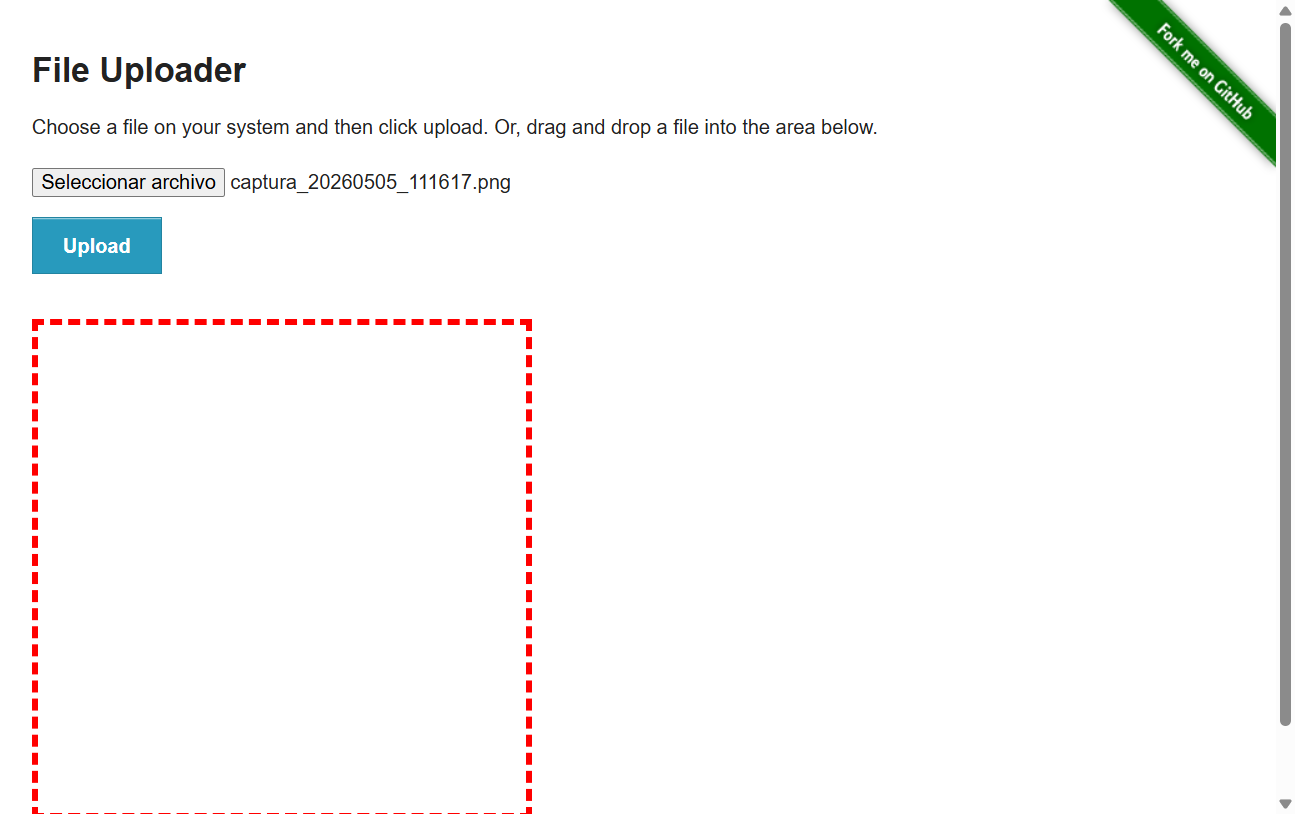
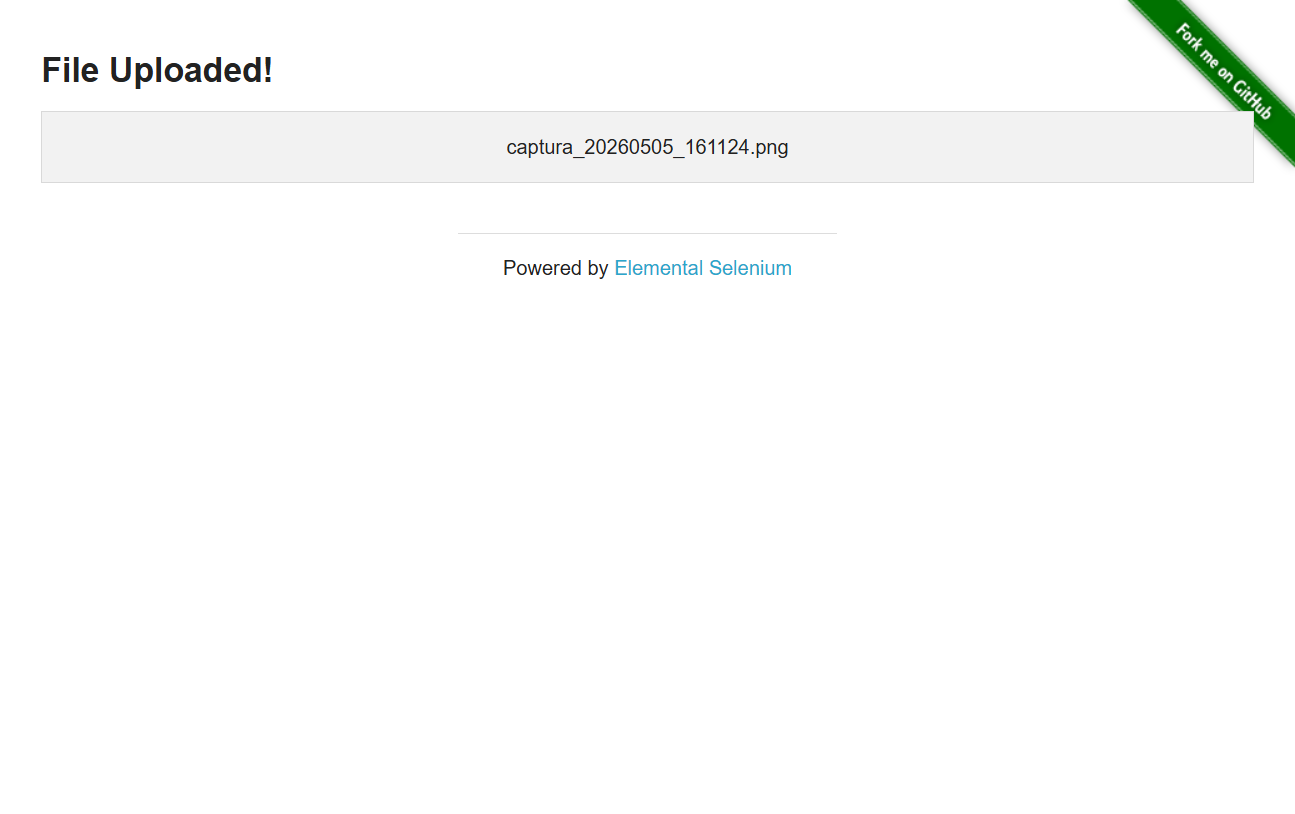
cuarto commit (cookies + depuracion de chrome)

diff --git a/interfaz2.py b/interfaz2.py
@@ -1,15 +1,16 @@
-from cmath import log
 import tkinter as tk
 from tkinter import ttk, messagebox
 import mss
 import mss.tools
 import os
+import pickle
 import threading
 import subprocess
 import sys
 import ast
 import json
 import keyring
+import time
 from datetime import datetime
 from pathlib import Path
 from selenium import webdriver
@@ -107,6 +108,33 @@ app.iniciar()
 CONFIG_FILE = "config.json"
 keyring_APP = "AutoCapturaApp"  # nombre para keyring (si decides usarlo en el futuro)
 
+# ── Funciones de manejo de cookies ─────────────────────────
+
+
+def guardar_cookies(driver, sitio_nombre):
+    Path("cookies").mkdir(exist_ok=True)
+    ruta = f"cookies/{sitio_nombre.replace(' ', '_')}.pkl"
+    with open(ruta, "wb") as f:
+        pickle.dump(driver.get_cookies(), f)
+
+
+def cargar_cookies(driver, sitio, url_base):
+    ruta = f"cookies/{sitio['nombre'].replace(' ', '_')}.pkl"
+    if not Path(ruta).exists():
+        print(f"[cookies] No existe archivo: {ruta}")
+        return False
+    driver.get(url_base)
+    with open(ruta, "rb") as f:
+        cookies = pickle.load(f)
+        print(f"[cookies] Cargando {len(cookies)} cookies para {sitio['nombre']}")
+        for cookie in cookies:
+            try:
+                driver.add_cookie(cookie)
+            except Exception as e:
+                print(f"[cookies] Skipped: {cookie.get('name')} — {e}")
+    driver.refresh()
+    return True
+
 
 def guardar_credenciales(sitio_nombre, usuario, clave):
     keyring.set_password(keyring_APP, f"{sitio_nombre}_usuario", usuario)
@@ -161,8 +189,17 @@ def capturar(region):
     return ruta
 
 
-def crear_driver(headless):
+def crear_driver(headless, usar_chrome_existente=False):
     options = webdriver.ChromeOptions()
+
+    if usar_chrome_existente:
+        # Conectarse al Chrome ya abierto
+        options.add_experimental_option("debuggerAddress", "127.0.0.1:9222")
+        return webdriver.Chrome(
+            service=Service(ChromeDriverManager().install()), options=options
+        )
+
+    # Comportamiento original: abrir Chrome nuevo
     if headless:
         options.add_argument("--headless")
         options.add_argument("--disable-gpu")
@@ -173,17 +210,64 @@ def crear_driver(headless):
     )
 
 
-def subir(sitio, ruta_imagen, headless, log, credenciales_sesion=None):
+# La función subir ahora maneja tanto el caso de login como el de sitios sin login, e incluye validaciones para asegurar que la sesión esté activa antes de intentar subir
+#  la imagen. Si el sitio requiere login, primero intenta restaurar la sesión con cookies, y si eso falla, procede a hacer login con las credenciales proporcionadas.
+#  Después de un login exitoso, guarda las cookies para futuras ejecuciones. Durante la subida, espera a que se confirme que la imagen fue subida correctamente antes
+#  de registrar el resultado.
+def subir(
+    sitio,
+    ruta_imagen,
+    headless,
+    log,
+    credenciales_sesion=None,
+    usar_chrome_existente=False,
+):
     driver = crear_driver(headless)
     wait = WebDriverWait(driver, 15)
+    sesion_activa = True  # asume sesión activa, se validará más adelante
+    nombre = sitio.get("nombre", "sitio")
 
     try:
         if sitio["necesita_login"]:
-            nombre = sitio["nombre"]
+            url_base = sitio["url_login"]
+            sesion_activa = False
 
+            if usar_chrome_existente:
+                # ── Reutilizar la pestaña activa en lugar de abrir una nueva ──
+                pestaña_original = driver.current_window_handle
+                driver.switch_to.window(pestaña_original)
+                # Verificar si ya hay sesión activa en el Chrome abierto
+                driver.get(sitio["url_upload"])
+                time.sleep(1)
+
+                if "login" not in driver.current_url.lower():
+                    log(f"  ✓ Sesión activa detectada en Chrome: {sitio['nombre']}")
+                    sesion_activa = True
+                else:
+                    log(
+                        f"  ✗ Chrome abierto pero sin sesión activa en {sitio['nombre']}"
+                    )
+                    log(
+                        f"  → Inicia sesión manualmente en el navegador y vuelve a intentar"
+                    )
+                    return  # no intenta login automático
+            else:
+                # 1. Intentar cargar cookies para restaurar sesión
+                cargar_cookies(driver, sitio, url_base)
+                # Navegar a pagina protegida para verificar si la sesión es válida
+                driver.get(sitio["url_upload"])
+                time.sleep(1)  # pequeña pausa para que cargue
+                if "login" not in driver.current_url:
+                    log(f"  ✓ Sesión restaurada con cookies para {nombre}")
+                    sesion_activa = True
+                else:
+                    log(f"  ✗ Cookies expiradas, haciendo login...")
+
+        if not sesion_activa:
             if credenciales_sesion and nombre in credenciales_sesion:
                 usuario = credenciales_sesion[nombre]["usuario"]
                 clave = credenciales_sesion[nombre]["clave"]
+
             # ── LOGIN ─────────────────────────────
             else:
                 usuario, clave = cargar_credenciales(sitio["nombre"])
@@ -193,13 +277,11 @@ def subir(sitio, ruta_imagen, headless, log, credenciales_sesion=None):
                 return
 
             driver.get(sitio["url_login"])
-
             wait.until(
                 EC.presence_of_element_located(
                     (By.CSS_SELECTOR, sitio["selector_user"])
                 )
             )
-
             driver.find_element(By.CSS_SELECTOR, sitio["selector_user"]).send_keys(
                 usuario
             )
@@ -207,14 +289,10 @@ def subir(sitio, ruta_imagen, headless, log, credenciales_sesion=None):
                 clave
             )
             driver.find_element(By.CSS_SELECTOR, sitio["selector_btn_login"]).click()
-
             wait.until(EC.url_contains("secure"))
 
-            if "secure" not in driver.current_url:
-                log(f"  ✗ Login fallido en {sitio['nombre']}")
-                return
-
-            log(f"  ✓ Login exitoso en {sitio['nombre']}")
+            guardar_cookies(driver, nombre)
+            log(f"  ✓ Login exitoso, cookies guardadas: {nombre}")
 
         # ── SUBIDA ────────────────────────────
         driver.get(sitio["url_upload"])
@@ -243,10 +321,15 @@ def subir(sitio, ruta_imagen, headless, log, credenciales_sesion=None):
         log(f"  ✗ Error en {sitio['nombre']}: {e}")
 
     finally:
-        driver.quit()
+        if usar_chrome_existente:
+            pass  # no cerrar el Chrome que el usuario tiene abierto
+        else:
+            driver.quit()
 
-    usuario, clave = cargar_credenciales(sitio["nombre"])
-    print("DEBUG CREDENCIALES:", usuario, clave)
+    usuario, clave = cargar_credenciales(
+        sitio["nombre"]
+    )  # Esto hay que comentarlo despues
+    print("DEBUG CREDENCIALES:", usuario, clave)  # Esto hay que comentarlo despues
 
 
 # Interfaz de Login
@@ -315,6 +398,7 @@ class LoginWindow(tk.Toplevel):
             }
 
         # Botones de acción
+
         frame.btns = ttk.Frame(self)
         frame.btns.grid(row=99, column=0, columnspan=2, sticky="ew", pady=(10, 0))
         ttk.Button(frame.btns, text="Continuar", command=self._confirmar).pack(
@@ -443,11 +527,27 @@ class App(tk.Tk):
         ttk.Button(
             frame_opts, text="Credenciales", command=self._abrir_credenciales
         ).grid(row=0, column=1, padx=(20, 0))
+        ttk.Button(
+            frame_opts, text="Renovar sesión", command=self._renovar_sesion
+        ).grid(row=1, column=0, sticky="w", pady=(8, 0))
 
         # ── Botón ejecutar ──
         self.btn = ttk.Button(self, text="▶  Capturar y subir", command=self._ejecutar)
         self.btn.grid(row=2, column=0, columnspan=2, pady=(0, 12), sticky="ew")
         # ── En _build_ui, después de crear self.btn ──
+
+        self.chrome_existente_var = tk.BooleanVar(value=False)
+        ttk.Checkbutton(
+            frame_opts,
+            text="Usar Chrome ya abierto (puerto 9222)",
+            variable=self.chrome_existente_var,
+        ).grid(row=2, column=0, sticky="w", pady=(8, 0))
+
+        ttk.Button(
+            frame_opts,
+            text="Abrir Chrome con depuración",
+            command=self._abrir_chrome_debug,
+        ).grid(row=2, column=1, padx=(20, 0))
 
         # Keybind configurable
         frame_key = ttk.LabelFrame(
@@ -468,6 +568,7 @@ class App(tk.Tk):
         ttk.Button(frame_key, text="Aplicar atajo", command=self._aplicar_keybind).grid(
             row=0, column=2
         )
+        self.keybind_entry.bind("<KeyPress>", self._capturar_tecla)
         self.keybind_label = ttk.Label(frame_key, text="", foreground="black")
         self.keybind_label.grid(row=1, column=0, columnspan=3, sticky="w", pady=(6, 0))
 
@@ -643,17 +744,23 @@ class App(tk.Tk):
             self._log(f"→ Capturando región: {region}")
 
             self.after(0, self.iconify)  # minimiza antes de capturar
-            import time
-
             time.sleep(0.4)  # pequeña pausa para que minimice
             ruta = capturar(region)
             self.after(0, self.deiconify)  # restaura al guardars
 
             self._log(f"✓ Imagen guardada: {ruta}\n")
             headless = self.headless_var.get()
+            usar_chrome_existente = self.chrome_existente_var.get()
             for sitio in SITIOS:
                 self._log(f"→ Subiendo a: {sitio['nombre']}")
-                subir(sitio, ruta, headless, self._log, self._credenciales_sesion)
+                subir(
+                    sitio,
+                    ruta,
+                    headless,
+                    self._log,
+                    self._credenciales_sesion,
+                    usar_chrome_existente,
+                )
                 self._log("")
             self._log("✓ Proceso completado.")
             self.status_var.set("Completado")
@@ -663,6 +770,60 @@ class App(tk.Tk):
         finally:
             self.after(0, self.deiconify)
             self.after(0, lambda: self.btn.configure(state="normal"))
+
+    def _renovar_sesion(self):
+        """Borra cookies guardadas para forzar un login fresco."""
+        import shutil
+
+        if Path("cookies").exists():
+            shutil.rmtree("cookies")
+        self._log("→ Cookies eliminadas. Se hará login en la próxima ejecución.")
+
+    def _abrir_chrome_debug(self):
+        """Lanza Chrome con el puerto de depuración remota."""
+        import subprocess
+
+        rutas_chrome = [
+            r"C:\Program Files\Google\Chrome\Application\chrome.exe",
+            r"C:\Program Files (x86)\Google\Chrome\Application\chrome.exe",
+        ]
+        chrome_exe = next((r for r in rutas_chrome if Path(r).exists()), None)
+
+        if not chrome_exe:
+            self._log(
+                "✗ No se encontró Chrome. Abre chrome.exe manualmente con --remote-debugging-port=9222"
+            )
+            return
+
+        subprocess.Popen(
+            [
+                chrome_exe,
+                "--remote-debugging-port=9222",
+                "--user-data-dir=C:\\chrome_sesion_ssauto",
+            ]
+        )
+        self._log("✓ Chrome abierto con depuración en puerto 9222")
+        self._log("→ Inicia sesión en los sitios y luego ejecuta la captura")
+
+    def _capturar_tecla(self, event):
+        """Detecta la combinación presionada y la escribe automáticamente."""
+        partes = []
+        if event.state & 0x4:
+            partes.append("Control")
+        if event.state & 0x1:
+            partes.append("Shift")
+        if event.state & 0x20000:
+            partes.append("Alt")
+
+        tecla = event.keysym
+        # Ignorar si solo se presiona un modificador solo
+        if tecla in ("Control_L", "Control_R", "Shift_L", "Shift_R", "Alt_L", "Alt_R"):
+            return "break"
+
+        partes.append(tecla)
+        combinacion = "<" + "-".join(partes) + ">"
+        self.keybind_var.set(combinacion)
+        return "break"  # evita que el caracter se escriba en el campo
 
 
 if __name__ == "__main__":
@@ -684,11 +845,24 @@ if __name__ == "__main__":
 # Los sitios son: https://the-internet.herokuapp.com/upload (sin login) y https://the-internet.herokuapp.com/login (con login de prueba: tomsmith/SuperSecretPassword!).
 
 # 05-05-2026
+
 # En el dia de hoy, me enfoqué en implementar la funcionalidad de login para los sitios que lo requieren, utilizando Selenium para automatizar el proceso de autenticación.
 # Creé una ventana modal de login que se muestra al iniciar la aplicación, donde se pueden ingresar y guardar las credenciales de cada sitio de forma
 # segura utilizando la librería keyring.
 # La función de subida ahora incluye el proceso de login automático antes de intentar subir la imagen,
 # lo que permite manejar sitios con autenticación sin necesidad de ingresar las credenciales cada vez.
 # Además, se agregó una validación para verificar que el login fue exitoso antes de proceder con la subida, y se muestra un mensaje de error si el login falla.
+# Se implemento un sistema de cookies para intentar restaurar la sesión antes de hacer login, lo que puede evitar la necesidad de autenticarse en cada ejecución
+# si las cookies siguen siendo válidas. Ademas de las cookies un boton para renovar la sesión, que borra las cookies guardadas y fuerza un login fresco en la próxima ejecución.
+# Tambien añadi una opción para reutilizar una sesión de Chrome ya abierta, lo que permite aprovechar una sesión activa sin necesidad de hacer login automático cada vez,
+# aunque requiere que el usuario inicie sesión manualmente en el navegador.
 # Las pruebas se realizaron con dos sitios de ejemplo, uno sin login y otro con login, utilizando Selenium para manejar la autenticación y la subida de archivos.
 # Los sitios son: https://the-internet.herokuapp.com/upload (sin login) y https://the-internet.herokuapp.com/login (con login de prueba: tomsmith/SuperSecretPassword!).
+
+
+# realmente es necesario iniciar sesion cada vez que se quiera subir una captura a un sitio que requiere autenticacion?, ademas si el sitio se mantiene abierto siempre
+# en el navegador, no se podria aprovechar esa sesion activa para subir las capturas sin necesidad de hacer login cada vez?
+
+# Hay que arreglar el chrome con depuracion, ya que se abre bien, pero cuando se ejecuta la captura y subida, no detecta la sesión activa, aunque el Chrome abierto
+#  tenga sesión iniciada en el sitio, entonces hace el login automático, pero no funciona, no detecta que se hizo login exitoso,
+#  y no sube la imagen. Hay que revisar esa parte para que funcione correctamente con un Chrome ya abierto y con sesión activa.